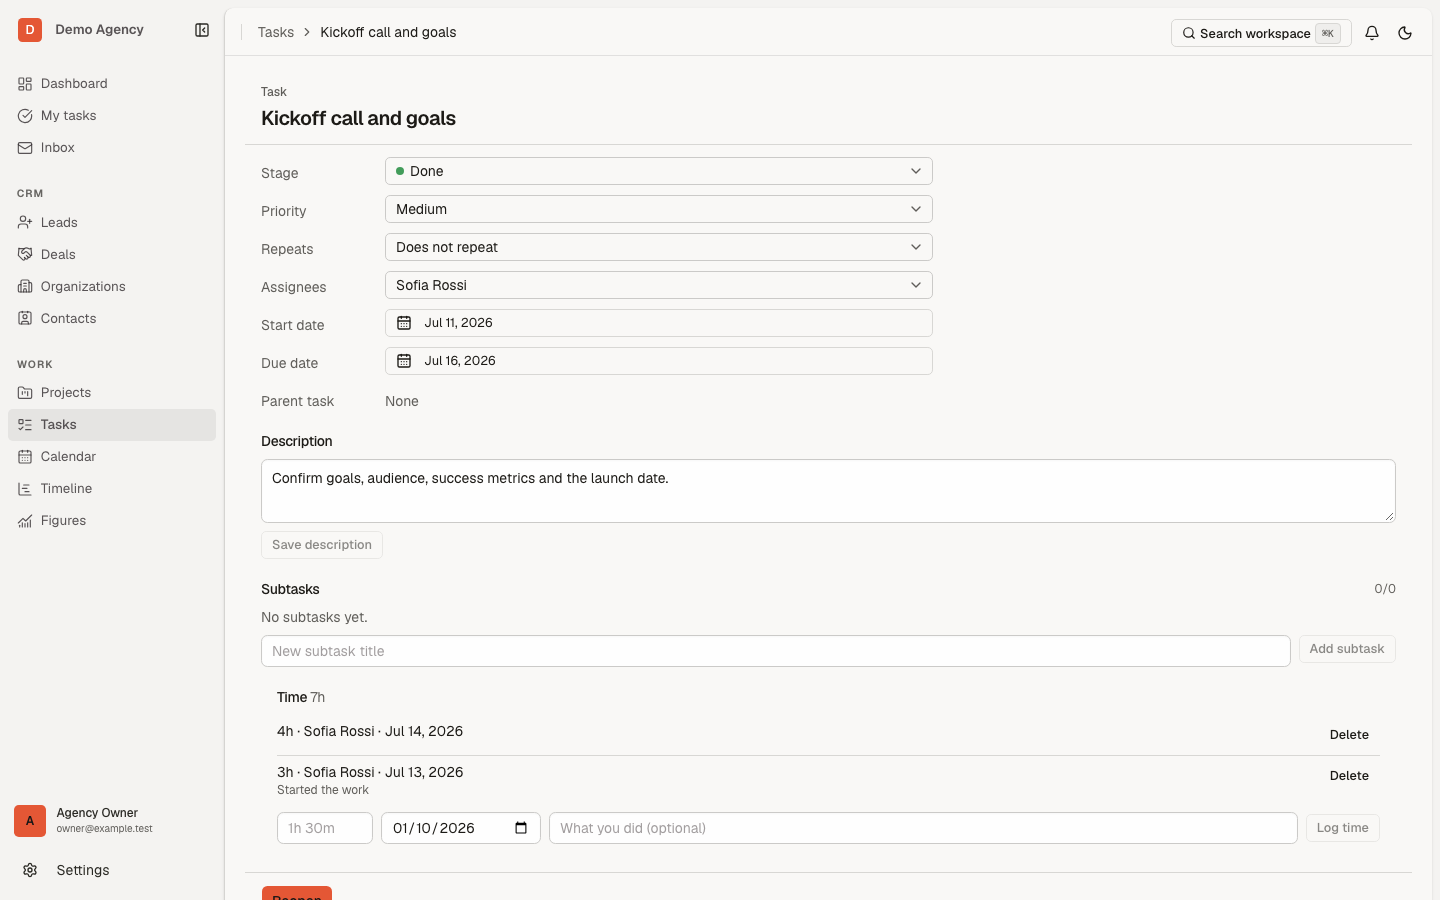
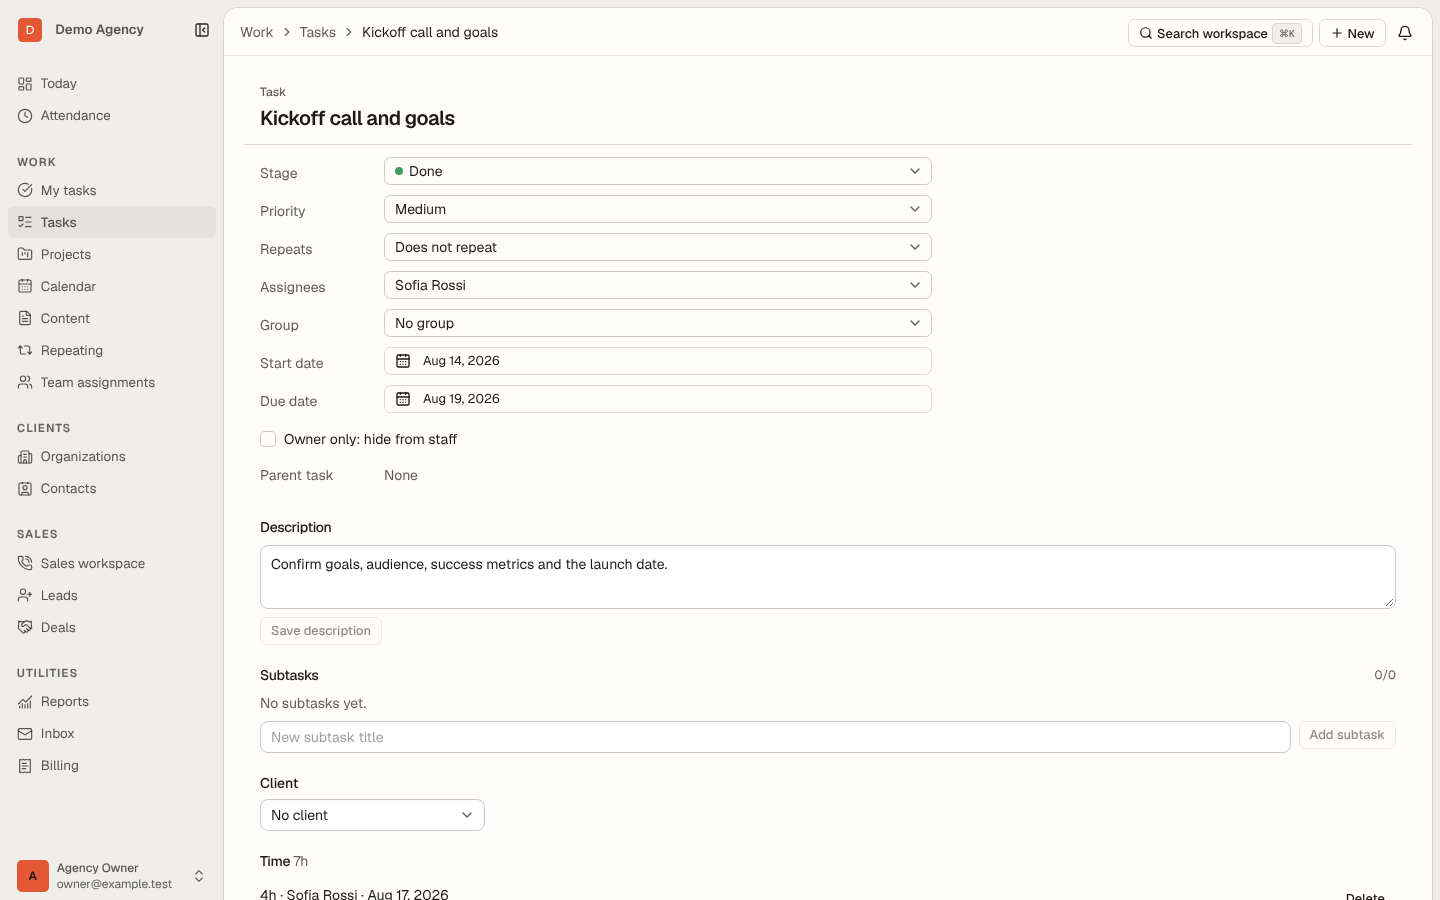
docs: retake the README screenshots and refresh its lists
Screenshots retaken from the demo dataset (Today, Tasks with the new tab strip, a
client with Outstanding and Billing, boards, figures, settings with every group
in view, task detail, phone). The screenshot script covers the Tasks table and a
client. README gains Clients and Billing rows and links the navigation, UI
language, client hub, performance, net-gain and readiness documents.

Verified: pnpm docs:screenshots against the running demo app; every name shown
is fictional.

Claude-Session: https://claude.ai/code/session_01N6559u8xv2dWEYWvPrVqQt

diff --git a/scripts/screenshots.ts b/scripts/screenshots.ts
@@ -40,6 +40,23 @@ async function taskWithTime(page: Page): Promise<string> {
   throw new Error('no task with logged time; run pnpm seed:demo first')
 }
 
+/** A client with projects and deals, so the client screenshot shows a full hub. */
+async function clientWithWork(page: Page): Promise<string> {
+  const response = await page.request.get(`${BASE}/api/v1/organizations?limit=40`)
+  const body = (await response.json()) as { data: { records?: { id: string }[] } | { id: string }[] }
+  const records = Array.isArray(body.data) ? body.data : (body.data.records ?? [])
+  for (const organization of records) {
+    await page.goto(`${BASE}/organizations/${organization.id}`, { waitUntil: 'load' })
+    await page.waitForTimeout(500)
+    if (
+      (await page.locator('a[href^="/projects/"]').count()) > 0 &&
+      (await page.locator('a[href^="/deals/"]').count()) > 0
+    )
+      return organization.id
+  }
+  throw new Error('no client with a project and a deal; run pnpm seed:demo first')
+}
+
 /**
  * Captures the README screenshots from a running app that holds the demo data (`pnpm seed:demo`), signed in as the demo
  * owner. Everything shown is fictional.
@@ -50,6 +67,7 @@ export async function main(): Promise<number> {
   const desktop = await signIn(await browser.newContext({ viewport: { width: 1440, height: 900 } }))
   for (const shot of [
     { route: '/', name: 'dashboard' },
+    { route: '/tasks', name: 'tasks' },
     { route: '/leads/board', name: 'leads-board' },
     { route: '/deals/board', name: 'deals-board' },
     { route: '/tasks/board', name: 'tasks-board' },
@@ -58,6 +76,7 @@ export async function main(): Promise<number> {
   ]) {
     await shoot(desktop, shot)
   }
+  await shoot(desktop, { route: `/organizations/${await clientWithWork(desktop)}`, name: 'client' })
   await shoot(desktop, { route: `/tasks/${await taskWithTime(desktop)}`, name: 'task-detail' })
   const phone = await signIn(await browser.newContext({ ...devices['iPhone 13'] }))
   await shoot(phone, { route: '/', name: 'mobile-dashboard' })

diff --git a/README.md b/README.md
@@ -28,13 +28,17 @@ Each deployment serves its own tenants, defined outside this repository (see [`t
 
 Taken from the demo workspace, where every name, company and number is fictional. `pnpm docs:screenshots` retakes them from a running app that holds the demo data.
 
-| Dashboard                                                            | Leads board                                                                     |
-| -------------------------------------------------------------------- | ------------------------------------------------------------------------------- |
-| ![Dashboard with the sales pipeline](docs/screenshots/dashboard.png) | ![Lead board by stage](docs/screenshots/leads-board.png)                        |
-| **Deals board**                                                      | **Task board**                                                                  |
-| ![Deal board by stage](docs/screenshots/deals-board.png)             | ![Task board by stage](docs/screenshots/tasks-board.png)                        |
-| **Figures**                                                          | **Task with logged time**                                                       |
-| ![Figures with pipeline charts](docs/screenshots/figures.png)        | ![A task with its properties and logged time](docs/screenshots/task-detail.png) |
+| Today                                                                               | Tasks                                                                           |
+| ----------------------------------------------------------------------------------- | ------------------------------------------------------------------------------- |
+| ![Today with attendance and the person's queues](docs/screenshots/dashboard.png)    | ![Tasks table with view tabs](docs/screenshots/tasks.png)                       |
+| **Client**                                                                          | **Leads board**                                                                 |
+| ![A client with billing, projects, contacts and deals](docs/screenshots/client.png) | ![Lead board by stage](docs/screenshots/leads-board.png)                        |
+| **Deals board**                                                                     | **Task board**                                                                  |
+| ![Deal board by stage](docs/screenshots/deals-board.png)                            | ![Task board by stage](docs/screenshots/tasks-board.png)                        |
+| **Figures**                                                                         | **Task with logged time**                                                       |
+| ![Figures with pipeline charts](docs/screenshots/figures.png)                       | ![A task with its properties and logged time](docs/screenshots/task-detail.png) |
+| **Settings**                                                                        |                                                                                 |
+| ![Settings with every group in view](docs/screenshots/settings.png)                 |                                                                                 |
 
 <p align="center">
   <img src="docs/screenshots/mobile-dashboard.png" alt="Dashboard on a phone" width="260">
@@ -44,20 +48,22 @@ Taken from the demo workspace, where every name, company and number is fictional
 
 ## What it does
 
-| Area                | Capabilities                                                                                                                                                                                                                                                                                  |
-| ------------------- | --------------------------------------------------------------------------------------------------------------------------------------------------------------------------------------------------------------------------------------------------------------------------------------------- |
-| **Lead intake**     | Public intake endpoints with exact-origin CORS, Turnstile, rate limiting and server keys; form answers mapped to lead fields and custom fields; a hosted form builder with a public page and embed code; a lead-assignment rule that hands new leads to people in turn.                       |
-| **Pipeline**        | Configurable workflows per record type; lead and deal boards with drag-and-drop and rollback; stage requirements that name the missing fields; a first-response target that flags leads waiting too long.                                                                                     |
-| **Lead management** | Search, owner and source filters, saved views, bulk assign and bulk stage move, phone cards, duplicate warnings, next-action dates with an overdue marker, notes, editable details, and one-step conversion to contact, organization and deal.                                                |
-| **Deals to work**   | A won deal starts an onboarding project from a playbook, with its tasks and due dates, and links back to the lead it came from.                                                                                                                                                               |
-| **Work**            | Tasks with a table, board, calendar and a timeline coloured by stage; projects with members and progress; subtasks; a mobile layout throughout.                                                                                                                                               |
-| **Attendance**      | Self check-in/out at `/attendance`, personal history and an owner/manager team view. Employee-reported and server-received times are stored separately as Unix milliseconds and displayed in the employee's local timezone. Rules live in [spec §10.2](docs/spec.md#102-work-opsmodule-work). |
-| **Custom fields**   | Tenant-defined fields on organizations, contacts, leads and deals, with visibility rules.                                                                                                                                                                                                     |
-| **Email**           | Per-record email threads, reusable templates, and inbound routing to the right record.                                                                                                                                                                                                        |
-| **Newsletter**      | Opt-in through contacts or a lead form question, named audiences, a signed one-click unsubscribe link, and a campaign history.                                                                                                                                                                |
-| **Reporting**       | Figures with owner breakdowns, and pipeline charts: open pipeline, revenue won per month, win rate, deals and leads by stage, lead sources.                                                                                                                                                   |
-| **Data**            | CSV import of organizations, contacts, leads and deals with a dry-run check and per-row report, CSV export of organizations, contacts, leads and deals, and an archive with restore.                                                                                                          |
-| **Access**          | Owner, manager and staff roles with record-level scope, groups, invitations, and an audit trail of activity.                                                                                                                                                                                  |
+| Area                | Capabilities                                                                                                                                                                                                                                                                                               |
+| ------------------- | ---------------------------------------------------------------------------------------------------------------------------------------------------------------------------------------------------------------------------------------------------------------------------------------------------------- |
+| **Lead intake**     | Public intake endpoints with exact-origin CORS, Turnstile, rate limiting and server keys; form answers mapped to lead fields and custom fields; a hosted form builder with a public page and embed code; a lead-assignment rule that hands new leads to people in turn.                                    |
+| **Pipeline**        | Configurable workflows per record type; lead and deal boards with drag-and-drop and rollback; stage requirements that name the missing fields; a first-response target that flags leads waiting too long.                                                                                                  |
+| **Lead management** | Search, owner and source filters, saved views, bulk assign and bulk stage move, phone cards, duplicate warnings, next-action dates with an overdue marker, notes, editable details, and one-step conversion to contact, organization and deal.                                                             |
+| **Deals to work**   | A won deal starts an onboarding project from a playbook, with its tasks and due dates, and links back to the lead it came from.                                                                                                                                                                            |
+| **Clients**         | One page per client: contacts, leads, deals, projects, tasks, files, email, notes and, for owners and managers, quotes, invoices and what the client owes. A task can be made for a client and for someone, from the menu, the client page or the task panel. See [client hub](docs/design/client-hub.md). |
+| **Billing**         | Quotes that become invoices, line items with tax, status from draft to paid, emailed to the client. Owners and managers only.                                                                                                                                                                              |
+| **Work**            | Tasks with a table, board, calendar and a timeline coloured by stage; projects with members and progress; subtasks; a mobile layout throughout, and a Today screen per person that leads with attendance.                                                                                                  |
+| **Attendance**      | Self check-in/out at `/attendance`, personal history and an owner/manager team view. Employee-reported and server-received times are stored separately as Unix milliseconds and displayed in the employee's local timezone. Rules live in [spec §10.2](docs/spec.md#102-work-opsmodule-work).              |
+| **Custom fields**   | Tenant-defined fields on organizations, contacts, leads and deals, with visibility rules.                                                                                                                                                                                                                  |
+| **Email**           | Per-record email threads, reusable templates, and inbound routing to the right record.                                                                                                                                                                                                                     |
+| **Newsletter**      | Opt-in through contacts or a lead form question, named audiences, a signed one-click unsubscribe link, and a campaign history.                                                                                                                                                                             |
+| **Reporting**       | Figures with owner breakdowns, and pipeline charts: open pipeline, revenue won per month, win rate, deals and leads by stage, lead sources.                                                                                                                                                                |
+| **Data**            | CSV import of organizations, contacts, leads and deals with a dry-run check and per-row report, CSV export of organizations, contacts, leads and deals, and an archive with restore.                                                                                                                       |
+| **Access**          | Owner, manager and staff roles with record-level scope, groups, invitations, and an audit trail of activity.                                                                                                                                                                                               |
 
 ## UX standard
 
@@ -196,18 +202,21 @@ Pushing a `v*` tag also starts the GitHub Deploy workflow, which checks out the 
 
 ## Documentation
 
-| Read                                                                 | For                                                          |
-| -------------------------------------------------------------------- | ------------------------------------------------------------ |
-| [`docs/guides/owner-guide.md`](docs/guides/owner-guide.md)           | setting up and running a workspace as its owner              |
-| [`docs/guides/staff-quickstart.md`](docs/guides/staff-quickstart.md) | working leads, clients and tasks day to day                  |
-| [`docs/spec.md`](docs/spec.md)                                       | authoritative product behavior                               |
-| [`docs/architecture.md`](docs/architecture.md)                       | the short map and the conventions every change keeps         |
-| [`docs/roadmap.md`](docs/roadmap.md)                                 | the order in which open work ships                           |
-| [`docs/backlog/`](docs/backlog/)                                     | open code-health and UX findings                             |
-| [`docs/adr/`](docs/adr/)                                             | architecture decisions                                       |
-| [`docs/design/self-serve-saas.md`](docs/design/self-serve-saas.md)   | the proposal for self-serve signup and provisioning          |
-| [`docs/runbooks/`](docs/runbooks/)                                   | deploy, backup, rollback, incident and onboarding procedures |
-| [`AGENTS.md`](AGENTS.md)                                             | where code lives, golden examples and working rules          |
+| Read                                                                                                                                                   | For                                                                     |
+| ------------------------------------------------------------------------------------------------------------------------------------------------------ | ----------------------------------------------------------------------- |
+| [`docs/guides/owner-guide.md`](docs/guides/owner-guide.md)                                                                                             | setting up and running a workspace as its owner                         |
+| [`docs/guides/staff-quickstart.md`](docs/guides/staff-quickstart.md)                                                                                   | working leads, clients and tasks day to day                             |
+| [`docs/spec.md`](docs/spec.md)                                                                                                                         | authoritative product behavior                                          |
+| [`docs/architecture.md`](docs/architecture.md)                                                                                                         | the short map and the conventions every change keeps                    |
+| [`docs/roadmap.md`](docs/roadmap.md)                                                                                                                   | the order in which open work ships                                      |
+| [`docs/backlog/`](docs/backlog/)                                                                                                                       | open code-health and UX findings                                        |
+| [`docs/adr/`](docs/adr/)                                                                                                                               | architecture decisions                                                  |
+| [`docs/design/navigation.md`](docs/design/navigation.md), [`ui-language.md`](docs/design/ui-language.md), [`client-hub.md`](docs/design/client-hub.md) | how people move around, the visual rules, and how a client is organized |
+| [`docs/performance.md`](docs/performance.md), [`net-gain.md`](docs/net-gain.md)                                                                        | how requests are kept lean, measured, and what changed                  |
+| [`docs/product-readiness.md`](docs/product-readiness.md)                                                                                               | what a white-label buyer gets, and what still blocks a sale             |
+| [`docs/design/self-serve-saas.md`](docs/design/self-serve-saas.md)                                                                                     | the proposal for self-serve signup and provisioning                     |
+| [`docs/runbooks/`](docs/runbooks/)                                                                                                                     | deploy, backup, rollback, incident and onboarding procedures            |
+| [`AGENTS.md`](AGENTS.md)                                                                                                                               | where code lives, golden examples and working rules                     |
 
 ## Contributing
 
